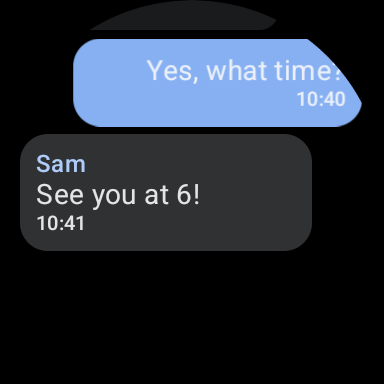
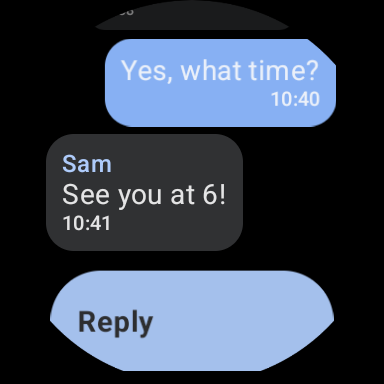
Watch 4/4: tile, honest offline state, checked on the watch emulator (AII-415)

diff --git a/wear/src/main/java/com/smizflark/aigile/messenger/wear/WearActivity.kt b/wear/src/main/java/com/smizflark/aigile/messenger/wear/WearActivity.kt
@@ -65,7 +65,12 @@ import kotlinx.coroutines.tasks.await
 class WearActivity : ComponentActivity() {
     override fun onCreate(savedInstanceState: Bundle?) {
         super.onCreate(savedInstanceState)
-        setContent { MaterialTheme { WearApp() } }
+        setContent { MaterialTheme { WearApp(intent?.getStringExtra(EXTRA_CHAT)) } }
+    }
+
+    companion object {
+        /** A tile tap on a chat name opens that chat. */
+        const val EXTRA_CHAT = "chat"
     }
 }
 
@@ -102,7 +107,7 @@ private class WearState {
 }
 
 @Composable
-private fun WearApp() {
+private fun WearApp(openChat: String?) {
     val ctx = LocalContext.current
     val st = remember { WearState() }
     val debug = (ctx.applicationInfo.flags and ApplicationInfo.FLAG_DEBUGGABLE) != 0
@@ -115,6 +120,7 @@ private fun WearApp() {
     DisposableEffect(Unit) {
         val client = runCatching { Wearable.getDataClient(ctx) }.getOrNull()
         val l = DataClient.OnDataChangedListener { events: DataEventBuffer ->
+            WearTileService.refresh(ctx)
             events.forEach { e ->
                 if (e.type == com.google.android.gms.wearable.DataEvent.TYPE_DELETED) e.dataItem.uri.path?.let { st.drop(it) }
                 else st.take(e.dataItem, ctx, stamp = true)
@@ -137,15 +143,20 @@ private fun WearApp() {
         val id = java.util.UUID.randomUUID().toString()
         st.outgoing = st.outgoing + Outgoing(id, key, text)
         scope.launch {
-            runCatching {
-                val nodes = Wearable.getNodeClient(ctx).connectedNodes.await()
-                nodes.forEach { Wearable.getMessageClient(ctx).sendMessage(it.id, WearReplies.REPLY, WearReplies.request(key, text, id)).await() }
+            // No connected phone: say so at once and keep the text for "Try again" (nothing was sent).
+            val nodes = runCatching { Wearable.getNodeClient(ctx).connectedNodes.await() }.getOrDefault(emptyList())
+            var reached = false
+            nodes.forEach { n ->
+                runCatching { Wearable.getMessageClient(ctx).sendMessage(n.id, WearReplies.REPLY, WearReplies.request(key, text, id)).await(); reached = true }
             }
+            if (!reached) { st.outgoing = WearReplies.noPhone(st.outgoing, id); return@launch }
             delay(WearReplies.ACK_WAIT_MS)
             st.outgoing = WearReplies.timeout(st.outgoing, id)
         }
     }
     val nav = rememberSwipeDismissableNavController()
+    // Opened from a tile tap on a chat name: go straight to that chat.
+    LaunchedEffect(openChat) { if (!openChat.isNullOrEmpty()) nav.navigate("chat/" + Uri.encode(openChat)) }
     SwipeDismissableNavHost(nav, startDestination = "list") {
         composable("list") {
             ChatList(st, debug, onOpen = { nav.navigate("chat/" + Uri.encode(it.key)) })
@@ -153,7 +164,9 @@ private fun WearApp() {
         composable("chat/{key}", arguments = listOf(navArgument("key") { type = NavType.StringType })) { e ->
             val key = e.arguments?.getString("key") ?: ""
             val chat = st.chats.firstOrNull { it.key == key }
-            ChatScreen(chat?.name ?: "", st.lines[WearChats.path(key)], st.outgoing.filter { it.key == key }, st.locked, onReply = { nav.navigate("reply/" + Uri.encode(key)) })
+            ChatScreen(chat?.name ?: "", st.lines[WearChats.path(key)], st.outgoing.filter { it.key == key }, st.locked,
+                onReply = { nav.navigate("reply/" + Uri.encode(key)) },
+                onRetry = { o -> st.outgoing = WearReplies.withoutLine(st.outgoing, o.id); send(o.key, o.text) })
         }
         composable("reply/{key}", arguments = listOf(navArgument("key") { type = NavType.StringType })) { e ->
             val key = e.arguments?.getString("key") ?: ""
@@ -210,7 +223,7 @@ private fun roundInset(): PaddingValues {
 }
 
 @Composable
-private fun ChatScreen(name: String, lines: List<WearLine>?, outgoing: List<Outgoing>, locked: Boolean, onReply: () -> Unit) {
+private fun ChatScreen(name: String, lines: List<WearLine>?, outgoing: List<Outgoing>, locked: Boolean, onReply: () -> Unit, onRetry: (Outgoing) -> Unit) {
     if (lines == null) {
         Centered { Text(stringResource(R.string.not_yet), textAlign = TextAlign.Center) }
         return
@@ -227,6 +240,12 @@ private fun ChatScreen(name: String, lines: List<WearLine>?, outgoing: List<Outg
         items(outgoing.size) { i ->
             val o = outgoing[i]
             Bubble(true, "", o.text, "", o.status)
+        }
+        WearReplies.retryable(outgoing)?.let { o ->
+            item {
+                Chip(onClick = { onRetry(o) }, modifier = Modifier.fillMaxWidth().padding(top = 6.dp), colors = ChipDefaults.secondaryChipColors(),
+                    label = { Text(stringResource(R.string.try_again), maxLines = 1) })
+            }
         }
         item {
             Chip(onClick = onReply, enabled = !locked, modifier = Modifier.fillMaxWidth().padding(top = 6.dp), colors = ChipDefaults.primaryChipColors(),
@@ -256,7 +275,8 @@ private fun Bubble(mine: Boolean, who: String, text: String, time: String, statu
 private fun statusText(s: ReplyStatus): String = when (s) {
     ReplyStatus.SENDING -> stringResource(R.string.sending)
     ReplyStatus.SENT -> "✓ " + stringResource(R.string.sent)
-    ReplyStatus.SAVED -> stringResource(R.string.saved_offline)
+    ReplyStatus.UNCONFIRMED -> stringResource(R.string.unconfirmed)
+    ReplyStatus.NOT_CONNECTED -> stringResource(R.string.not_connected)
     ReplyStatus.LOCKED -> stringResource(R.string.locked)
     ReplyStatus.NO_CHAT -> stringResource(R.string.no_chat)
     ReplyStatus.FAILED -> stringResource(R.string.send_failed)
@@ -279,10 +299,10 @@ private fun ReplyScreen(replies: List<String>, locked: Boolean, onSend: (String)
         item {
             Chip(
                 onClick = {
-                    // The same screen androidx.wear.input's RemoteInputIntentHelper opens: voice, keyboard, handwriting.
+                    // The watch's input screen (voice, keyboard, handwriting) through wear-input's helper (AII-415).
                     val input = RemoteInput.Builder(REPLY_INPUT).setLabel(label).build()
-                    val i = Intent("android.support.wearable.input.action.REMOTE_INPUT")
-                        .putExtra("android.support.wearable.input.extra.INPUTS_LIST", arrayOf(input))
+                    val i = androidx.wear.input.RemoteInputIntentHelper.createActionRemoteInputIntent()
+                    androidx.wear.input.RemoteInputIntentHelper.putRemoteInputsExtra(i, listOf(input))
                     runCatching { speak.launch(i) }
                 },
                 modifier = Modifier.fillMaxWidth(), colors = ChipDefaults.primaryChipColors(),

diff --git a/wear/src/main/java/com/smizflark/aigile/messenger/wear/WearTile.kt b/wear/src/main/java/com/smizflark/aigile/messenger/wear/WearTile.kt
@@ -1,0 +1,108 @@
+package com.smizflark.aigile.messenger.wear
+
+import android.content.Context
+import androidx.wear.protolayout.ActionBuilders
+import androidx.wear.protolayout.ColorBuilders.argb
+import androidx.wear.protolayout.DimensionBuilders.dp
+import androidx.wear.protolayout.DimensionBuilders.expand
+import androidx.wear.protolayout.DimensionBuilders.sp
+import androidx.wear.protolayout.LayoutElementBuilders
+import androidx.wear.protolayout.ModifiersBuilders
+import androidx.wear.protolayout.ResourceBuilders
+import androidx.wear.protolayout.TimelineBuilders
+import androidx.wear.protolayout.TypeBuilders.StringProp
+import androidx.wear.tiles.RequestBuilders
+import androidx.wear.tiles.TileBuilders
+import androidx.wear.tiles.TileService
+import com.google.android.gms.wearable.Wearable
+import com.google.common.util.concurrent.Futures
+import com.google.common.util.concurrent.ListenableFuture
+import kotlinx.coroutines.runBlocking
+import kotlinx.coroutines.tasks.await
+
+private const val VERSION = "1"
+private const val WHITE = 0xFFFFFFFF.toInt()
+private const val GREY = 0xFFBBBBBB.toInt()
+private const val BLUE = 0xFF8AB4F8.toInt()
+
+/** The "AI-gile" tile: unread count + top 3 chats from the same DataItems the app reads (AII-415). */
+class WearTileService : TileService() {
+    override fun onTileRequest(requestParams: RequestBuilders.TileRequest): ListenableFuture<TileBuilders.Tile> {
+        val content = runCatching { runBlocking { load(applicationContext) } }.getOrDefault(TileContent.build(emptyList(), false))
+        return Futures.immediateFuture(
+            TileBuilders.Tile.Builder()
+                .setResourcesVersion(VERSION)
+                .setTileTimeline(TimelineBuilders.Timeline.fromLayoutElement(layout(applicationContext, content)))
+                .build())
+    }
+
+    override fun onTileResourcesRequest(requestParams: RequestBuilders.ResourcesRequest): ListenableFuture<ResourceBuilders.Resources> =
+        Futures.immediateFuture(ResourceBuilders.Resources.Builder().setVersion(VERSION).build())
+
+    companion object {
+        /** Called from the app's data listener when /chats or /locked change. */
+        fun refresh(ctx: Context) {
+            runCatching { getUpdater(ctx).requestUpdate(WearTileService::class.java) }
+        }
+
+        private suspend fun load(ctx: Context): TileContent {
+            var chats = emptyList<WearChat>()
+            var locked = false
+            val buf = Wearable.getDataClient(ctx).dataItems.await()
+            try {
+                buf.forEach {
+                    when (it.uri.path) {
+                        WearChats.PATH -> it.data?.let { d -> chats = WearChats.parse(String(d)) }
+                        WearChats.LOCKED -> locked = WearChats.parseLocked(it.data)
+                    }
+                }
+            } finally { buf.release() }
+            return TileContent.build(chats, locked)
+        }
+
+        private fun open(ctx: Context, key: String?): ModifiersBuilders.Clickable {
+            val a = ActionBuilders.AndroidActivity.Builder().setPackageName(ctx.packageName).setClassName(WearActivity::class.java.name)
+            if (key != null) a.addKeyToExtraMapping(WearActivity.EXTRA_CHAT, ActionBuilders.AndroidStringExtra.Builder().setValue(key).build())
+            return ModifiersBuilders.Clickable.Builder().setId(key ?: "open")
+                .setOnClick(ActionBuilders.LaunchAction.Builder().setAndroidActivity(a.build()).build()).build()
+        }
+
+        private fun text(s: String, size: Float, color: Int, bold: Boolean = false): LayoutElementBuilders.Text =
+            LayoutElementBuilders.Text.Builder().setText(StringProp.Builder(s).build()).setMaxLines(1)
+                .setOverflow(LayoutElementBuilders.TEXT_OVERFLOW_ELLIPSIZE_END)
+                .setFontStyle(LayoutElementBuilders.FontStyle.Builder().setSize(sp(size)).setColor(argb(color))
+                    .setWeight(if (bold) LayoutElementBuilders.FONT_WEIGHT_BOLD else LayoutElementBuilders.FONT_WEIGHT_NORMAL).build())
+                .build()
+
+        fun layout(ctx: Context, c: TileContent): LayoutElementBuilders.LayoutElement {
+            if (c.locked) {
+                return LayoutElementBuilders.Box.Builder().setWidth(expand()).setHeight(expand())
+                    .setHorizontalAlignment(LayoutElementBuilders.HORIZONTAL_ALIGN_CENTER)
+                    .setVerticalAlignment(LayoutElementBuilders.VERTICAL_ALIGN_CENTER)
+                    .setModifiers(ModifiersBuilders.Modifiers.Builder()
+                        .setPadding(ModifiersBuilders.Padding.Builder().setAll(dp(24f)).build()).setClickable(open(ctx, null)).build())
+                    .addContent(LayoutElementBuilders.Text.Builder().setText(StringProp.Builder(ctx.getString(R.string.locked)).build())
+                        .setMaxLines(3).setMultilineAlignment(LayoutElementBuilders.TEXT_ALIGN_CENTER)
+                        .setFontStyle(LayoutElementBuilders.FontStyle.Builder().setSize(sp(14f)).setColor(argb(WHITE)).build()).build())
+                    .build()
+            }
+            val col = LayoutElementBuilders.Column.Builder().setWidth(expand()).setHeight(expand())
+                .setHorizontalAlignment(LayoutElementBuilders.HORIZONTAL_ALIGN_CENTER)
+                .setModifiers(ModifiersBuilders.Modifiers.Builder().setClickable(open(ctx, null)).build())
+            col.addContent(LayoutElementBuilders.Spacer.Builder().setHeight(dp(22f)).build())
+            col.addContent(text(ctx.getString(R.string.app_name), 12f, BLUE, true))
+            col.addContent(text(c.unread.toString(), 30f, WHITE, true))
+            col.addContent(text(ctx.resources.getQuantityString(R.plurals.tile_unread, c.unread), 11f, GREY))
+            col.addContent(LayoutElementBuilders.Spacer.Builder().setHeight(dp(6f)).build())
+            if (c.top.isEmpty()) col.addContent(text(ctx.getString(R.string.waiting), 12f, GREY))
+            c.top.forEach { chat ->
+                col.addContent(LayoutElementBuilders.Box.Builder().setWidth(dp(120f))
+                    .setHorizontalAlignment(LayoutElementBuilders.HORIZONTAL_ALIGN_CENTER)
+                    .setModifiers(ModifiersBuilders.Modifiers.Builder().setClickable(open(ctx, chat.key))
+                        .setPadding(ModifiersBuilders.Padding.Builder().setTop(dp(2f)).setBottom(dp(2f)).build()).build())
+                    .addContent(text((if (chat.unread) "● " else "") + chat.name, 13f, if (chat.unread) WHITE else GREY, chat.unread)).build())
+            }
+            return col.build()
+        }
+    }
+}

diff --git a/wear/src/test/java/com/smizflark/aigile/messenger/wear/WearTileContentTest.kt b/wear/src/test/java/com/smizflark/aigile/messenger/wear/WearTileContentTest.kt
@@ -1,0 +1,43 @@
+package com.smizflark.aigile.messenger.wear
+
+import org.junit.Assert.assertEquals
+import org.junit.Assert.assertNull
+import org.junit.Assert.assertTrue
+import org.junit.Test
+
+class WearTileContentTest {
+    private fun c(k: String, t: String, unread: Boolean) = WearChat(k, k, "", t, unread)
+
+    @Test fun countsUnreadAndShowsTopThreeUnreadFirst() {
+        val chats = listOf(c("old-unread", "2026-10-01T10:00:00Z", true), c("new-read", "2026-10-16T10:00:00Z", false),
+            c("mid-read", "2026-10-10T10:00:00Z", false), c("new-unread", "2026-10-15T10:00:00Z", true), c("oldest", "2026-09-01T10:00:00Z", false))
+        val t = TileContent.build(chats, false)
+        assertEquals(2, t.unread)
+        assertEquals(listOf("new-unread", "old-unread", "new-read"), t.top.map { it.key })
+    }
+
+    @Test fun lockedShowsNothing() {
+        val t = TileContent.build(listOf(c("a", "2026-10-16T10:00:00Z", true)), true)
+        assertTrue(t.locked); assertEquals(0, t.unread); assertTrue(t.top.isEmpty())
+    }
+
+    @Test fun emptyIsZero() {
+        assertEquals(TileContent(false, 0, emptyList()), TileContent.build(emptyList(), false))
+    }
+
+    @Test fun noPhoneNodeMeansNotSentAndRetryable() {
+        val l = listOf(Outgoing("1", "k", "a", ReplyStatus.SENT), Outgoing("2", "k", "b"))
+        val r = WearReplies.noPhone(l, "2")
+        assertEquals(ReplyStatus.NOT_CONNECTED, r[1].status)
+        assertEquals(ReplyStatus.SENT, r[0].status)
+        assertEquals("b", WearReplies.retryable(r)?.text)
+    }
+
+    @Test fun nothingToRetryWhenAllReachedThePhone() {
+        assertNull(WearReplies.retryable(listOf(Outgoing("1", "k", "a", ReplyStatus.SENT), Outgoing("2", "k", "b", ReplyStatus.UNCONFIRMED))))
+    }
+
+    @Test fun retryDropsTheOldLine() {
+        assertEquals(emptyList<Outgoing>(), WearReplies.withoutLine(listOf(Outgoing("1", "k", "a", ReplyStatus.NOT_CONNECTED)), "1"))
+    }
+}

diff --git a/wear/src/main/java/com/smizflark/aigile/messenger/wear/WearReplies.kt b/wear/src/main/java/com/smizflark/aigile/messenger/wear/WearReplies.kt
@@ -9,7 +9,7 @@ import kotlinx.serialization.json.jsonObject
 import kotlinx.serialization.json.jsonPrimitive
 
 /** Where a reply sent from the watch stands (AII-414). */
-enum class ReplyStatus { SENDING, SENT, SAVED, LOCKED, NO_CHAT, FAILED }
+enum class ReplyStatus { SENDING, SENT, UNCONFIRMED, NOT_CONNECTED, LOCKED, NO_CHAT, FAILED }
 
 /** A reply sent from the watch, shown under the chat's lines. */
 data class Outgoing(val id: String, val key: String, val text: String, val status: ReplyStatus = ReplyStatus.SENDING)
@@ -48,7 +48,17 @@ object WearReplies {
     /** An ack for the line's id settles it. */
     fun settle(list: List<Outgoing>, a: Ack): List<Outgoing> = list.map { if (it.id == a.id) it.copy(status = statusFor(a)) else it }
 
-    /** No ack within [ACK_WAIT_MS]: a line still sending becomes "saved". */
+    /** Nothing reached a phone node: the line is "not sent" at once (no waiting for an ack that cannot come). */
+    fun noPhone(list: List<Outgoing>, id: String): List<Outgoing> =
+        list.map { if (it.id == id) it.copy(status = ReplyStatus.NOT_CONNECTED) else it }
+
+    /** Lines the user can retry: they never reached the phone. */
+    fun retryable(list: List<Outgoing>): Outgoing? = list.lastOrNull { it.status == ReplyStatus.NOT_CONNECTED || it.status == ReplyStatus.FAILED }
+
+    /** Retrying drops the old line; the new send puts a fresh one. */
+    fun withoutLine(list: List<Outgoing>, id: String): List<Outgoing> = list.filter { it.id != id }
+
+    /** No ack within [ACK_WAIT_MS]: a line still sending becomes "unconfirmed". */
     fun timeout(list: List<Outgoing>, id: String): List<Outgoing> =
-        list.map { if (it.id == id && it.status == ReplyStatus.SENDING) it.copy(status = ReplyStatus.SAVED) else it }
+        list.map { if (it.id == id && it.status == ReplyStatus.SENDING) it.copy(status = ReplyStatus.UNCONFIRMED) else it }
 }

diff --git a/wear/src/main/java/com/smizflark/aigile/messenger/wear/WearTileContent.kt b/wear/src/main/java/com/smizflark/aigile/messenger/wear/WearTileContent.kt
@@ -1,0 +1,14 @@
+package com.smizflark.aigile.messenger.wear
+
+/** What the tile shows (AII-415): the unread count and the top 3 chat names, unread first, then newest. */
+data class TileContent(val locked: Boolean, val unread: Int, val top: List<WearChat>) {
+    companion object {
+        const val MAX = 3
+
+        fun build(chats: List<WearChat>, locked: Boolean): TileContent {
+            if (locked) return TileContent(true, 0, emptyList())
+            val top = chats.sortedWith(compareByDescending<WearChat> { it.unread }.thenByDescending { it.time }).take(MAX)
+            return TileContent(false, chats.count { it.unread }, top)
+        }
+    }
+}

diff --git a/wear/src/test/java/com/smizflark/aigile/messenger/wear/WearRepliesTest.kt b/wear/src/test/java/com/smizflark/aigile/messenger/wear/WearRepliesTest.kt
@@ -29,9 +29,9 @@ class WearRepliesTest {
         assertNull(WearReplies.parseAck("junk".toByteArray()))
     }
 
-    @Test fun noAckInTimeMeansSavedButAnAnsweredLineStays() {
+    @Test fun noAckInTimeMeansUnconfirmedButAnAnsweredLineStays() {
         val l = listOf(Outgoing("1", "k", "a", ReplyStatus.SENT), Outgoing("2", "k", "b"))
         assertEquals(ReplyStatus.SENT, WearReplies.timeout(l, "1")[0].status)
-        assertEquals(ReplyStatus.SAVED, WearReplies.timeout(l, "2")[1].status)
+        assertEquals(ReplyStatus.UNCONFIRMED, WearReplies.timeout(l, "2")[1].status)
     }
 }

diff --git a/wear/src/main/java/com/smizflark/aigile/messenger/wear/WearDataService.kt b/wear/src/main/java/com/smizflark/aigile/messenger/wear/WearDataService.kt
@@ -1,0 +1,11 @@
+package com.smizflark.aigile.messenger.wear
+
+import com.google.android.gms.wearable.DataEventBuffer
+import com.google.android.gms.wearable.WearableListenerService
+
+/** Runs when the phone changes /chats or /locked, even with the app closed, so the tile stays current (AII-415). */
+class WearDataService : WearableListenerService() {
+    override fun onDataChanged(events: DataEventBuffer) {
+        if (events.any { val p = it.dataItem.uri.path; p == WearChats.PATH || p == WearChats.LOCKED }) WearTileService.refresh(applicationContext)
+    }
+}

diff --git a/docs/CODEMAP.md b/docs/CODEMAP.md
@@ -165,4 +165,5 @@ Kotlin under `app/src/main/java/com/smizflark/aigile/messenger/` (paths below ar
 - Gradle module `:wear` (minSdk 30, same applicationId and signing key as :app so the Data Layer pairs them; standalone = false). WearActivity (AII-413): SwipeDismissableNavHost with a chats list (ScalingLazyColumn of Chips: name, last line, unread dot, newest first, "Last updated <time>" at the bottom, crown scroll by default) and a chat screen (last 15 lines, mine right/blue, scrolled to the newest; "Not on the watch yet" when /chat/<key> is missing). Reads the Data Layer's kept DataItems on start and listens for changes, so it works offline; "/locked" = "1" shows "Unlock AI-gile on your phone". Debug builds only: long-press "Waiting for your phone…" loads 3 demo chats. WearChats.kt = parsing, path escaping, clock; tests wear/src/test WearChatsTest (no Compose/Robolectric test: not set up in :wear).
 - app wear/WearSync.kt: Repo.chats() calls update: DataItem /chats (top 20 chats as JSON: key, name, last, time, unread; Cleared applied), /chat/<key> for the top 5 chats from cached conversations (last 15 lines: who, text capped at 500, time, mine; Cleared + deleted hidden), and /locked ("1"/"0"). Repo.conversation() calls updateChat for the chat just loaded. App lock on: only /locked=1 is sent and /chats + /chat/* are deleted. Tests WearSyncTest.
 - Replies from the watch (AII-414): chat screen ends with a "Reply" chip -> reply screen (Speak chip = the system RemoteInput screen via action android.support.wearable.input.action.REMOTE_INPUT, no wear-input dependency; the phone's quick replies from DataItem /replies; emoji row). Sending = MessageClient "/reply" {key,text,id}; WearReplies.kt (parse, ack, status, 10 s timeout -> "Saved, sends when your phone is online"). Chat/reply columns use a 12% side inset and bubbles max 150dp for round screens. app wear/WearReply.kt: WearReply.accept queues like ReplyReceiver (repo.queue, then deliver), refuses when App lock is on ("locked" ack -> watch shows "Unlock AI-gile on your phone"); WearReplyService (manifest, path /reply) acks at "/reply-ack"; WearSync.update also puts /replies (own Replies, else the app's defaults). Tests WearReplyTest (app), WearRepliesTest (wear).
+- Tile + honest sending (AII-415): WearTile.kt = "AI-gile" tile (WearTileService, androidx.wear.tiles 1.4.1 + protolayout 1.2.1): unread count + top 3 chats (WearTileContent.kt TileContent.build: unread first, then newest; locked = "Unlock AI-gile on your phone"); tap opens the app, tap a name opens that chat (WearActivity.EXTRA_CHAT). Refreshed by WearDataService (WearableListenerService on /chats and /locked) and by the activity's data listener via WearTileService.refresh. Sending: no connected phone node = status NOT_CONNECTED "Phone not connected: not sent" + a "Try again" chip (WearReplies.noPhone/retryable/withoutLine); ack ok = "Sent to your phone" (the ack does not say whether the phone queued it offline, so no "saved" claim); no ack in 10 s = UNCONFIRMED "Sent, your phone has not confirmed yet". Speak uses wear-input 1.1.0 RemoteInputIntentHelper (the hand-built framework intent opened the system screen and it closed again on the emulator). Shots in docs/shots/watch_*.png (tile shot is the empty state: the demo does not write DataItems). Tests WearTileContentTest.
 - tools/emulator/wear.ps1: boots the headless Wear AVD aigile_wear (port 5586), installs wear-debug.apk, prints the screen texts.
